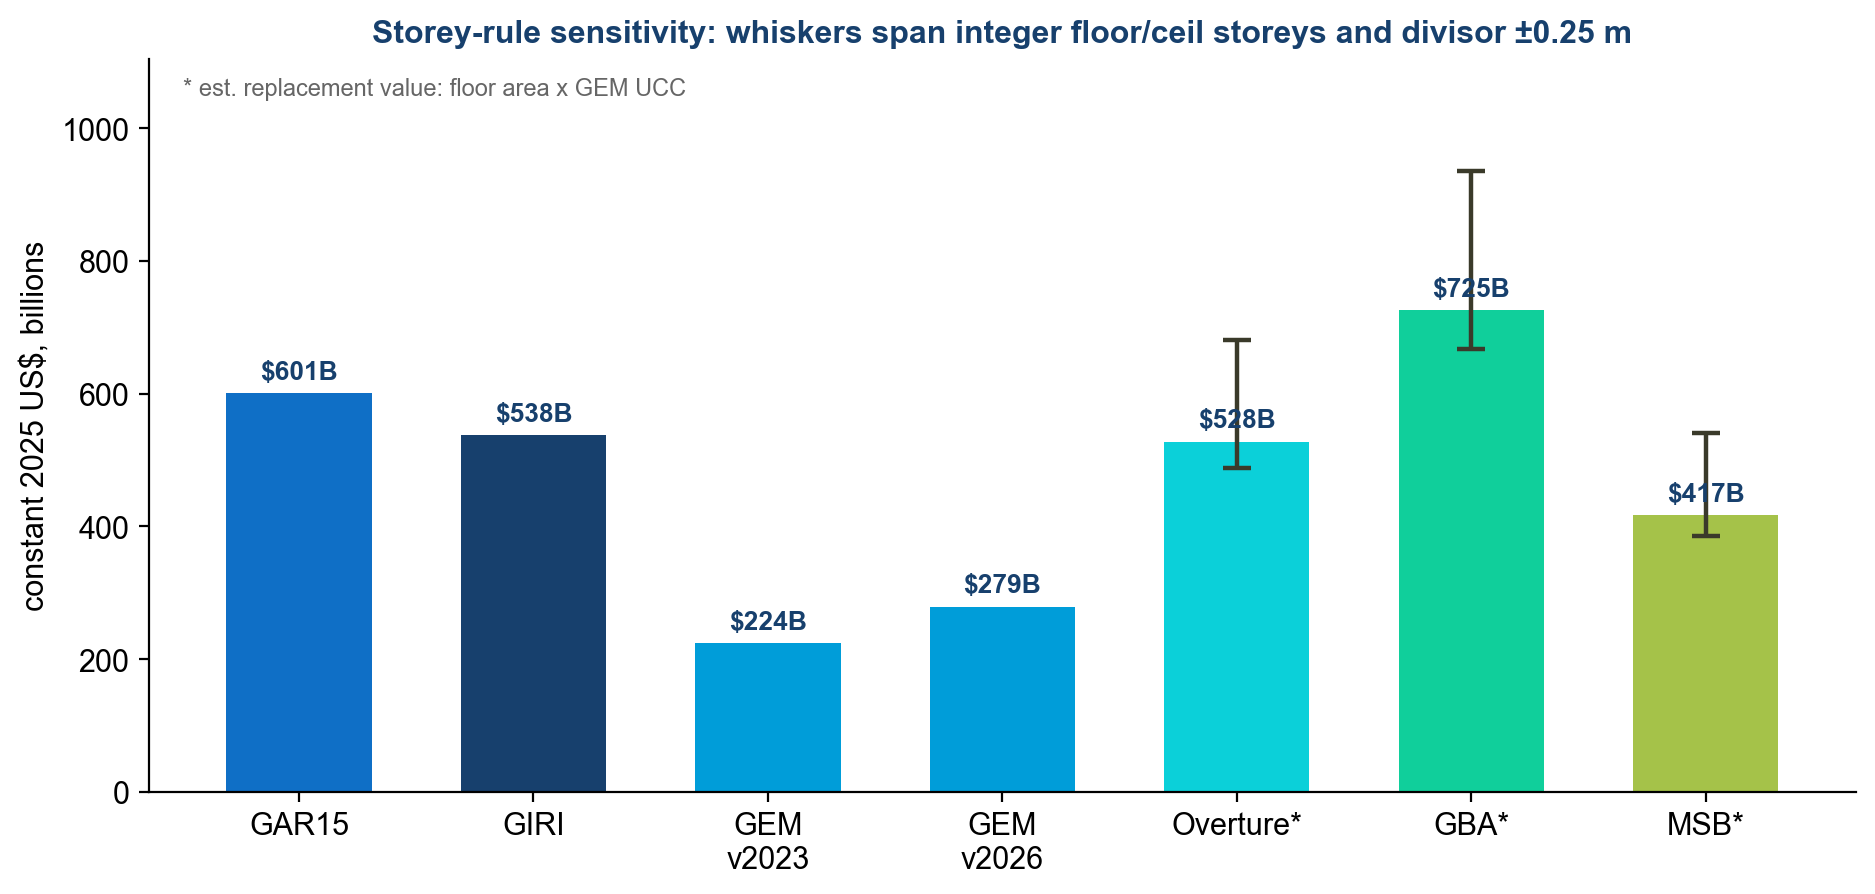
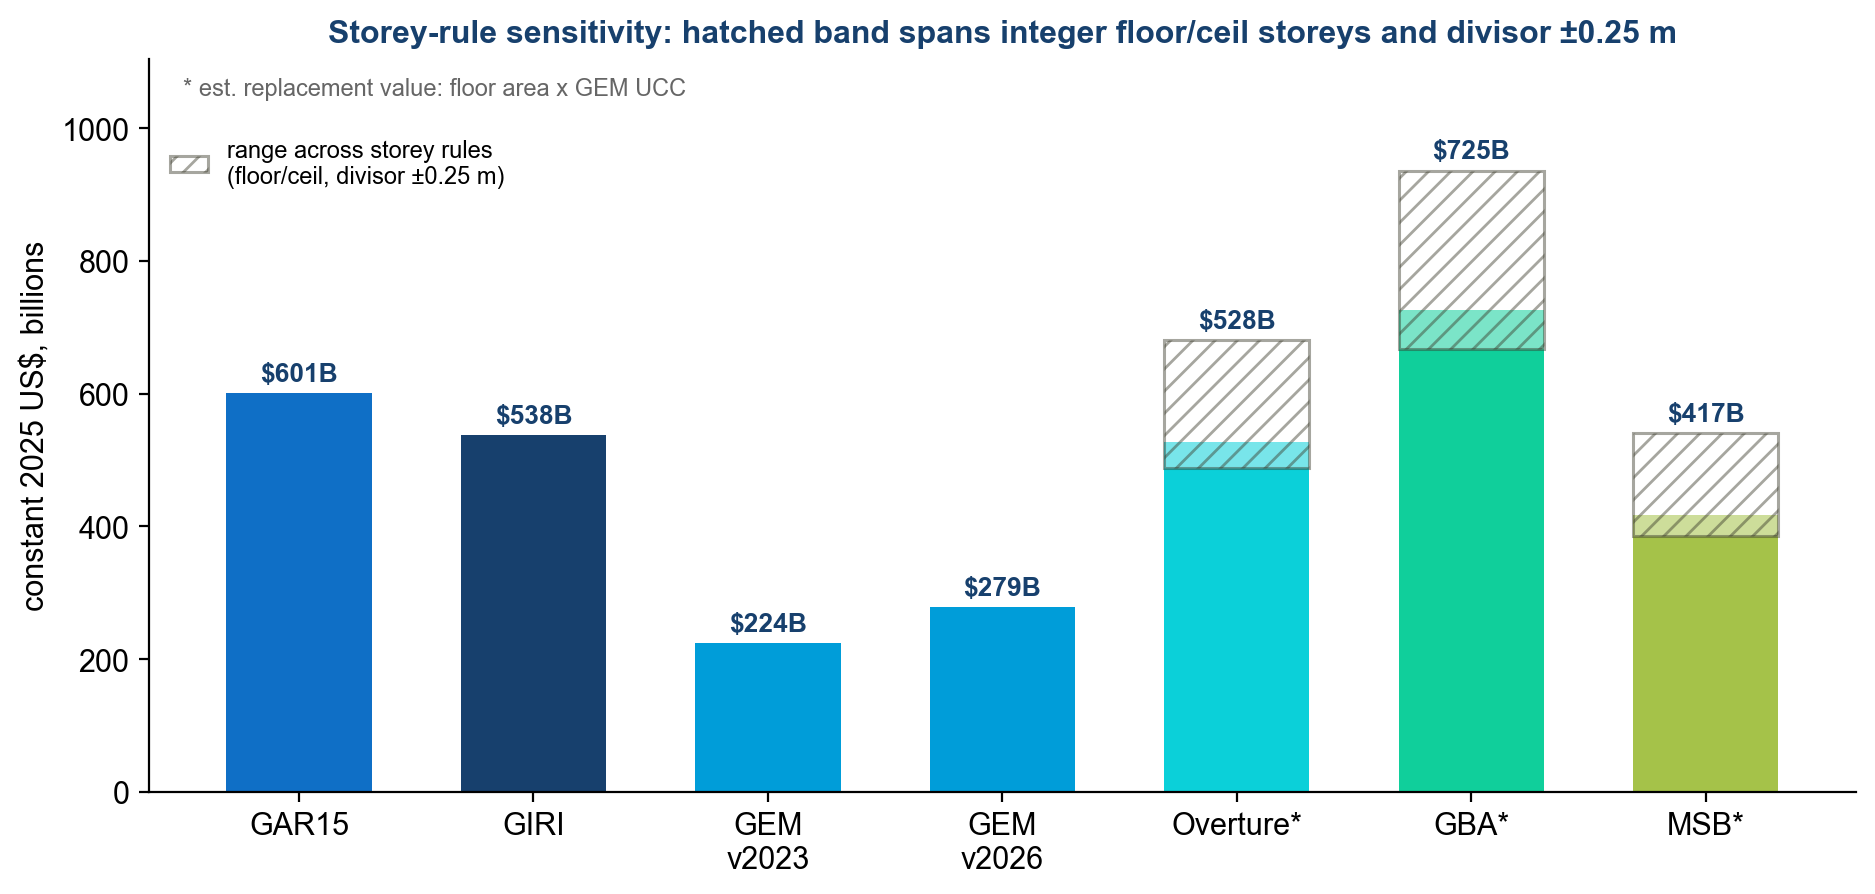
Sensitivity chart: hatched scenario band instead of whiskers.

diff --git a/site/tools/make_figures.py b/site/tools/make_figures.py
@@ -290,19 +290,26 @@ if SENS:
         hi.append(max(vals) - b)
     x = np.arange(len(labels))
     ax.bar(x, base, color=cols, width=0.62)
-    ax.errorbar(x[len(natives):], base[len(natives):],
-                yerr=[lo, hi], fmt='none', ecolor='#3a3a2a',
-                elinewidth=1.6, capsize=5, capthick=1.6)
+    # scenario envelope as a hatched band over each footprint bar (whiskers
+    # collided with the value labels)
+    band_lo = [b - d for b, d in zip(base[len(natives):], lo)]
+    band_hi = [b + d for b, d in zip(base[len(natives):], hi)]
+    ax.bar(x[len(natives):], [h - l for l, h in zip(band_lo, band_hi)],
+           bottom=band_lo, width=0.62, facecolor='white', alpha=0.45,
+           edgecolor='#3a3a2a', linewidth=1.1, hatch='///',
+           label='range across storey rules\n(floor/ceil, divisor ±0.25 m)')
     for i, b in enumerate(base):
-        ax.text(i, b + max(base) * 0.03, '$' + format(b, ',.0f') + 'B',
+        top = b if i < len(natives) else band_hi[i - len(natives)]
+        ax.text(i, top + max(base) * 0.025, '$' + format(b, ',.0f') + 'B',
                 ha='center', fontweight='bold', color=NAVY, fontsize=9.5)
     ax.set_xticks(x, labels)
     ax.set_ylabel(f'{usdlab}, billions')
-    ax.set_ylim(0, max(max(base), max(b + h for b, h in
-                       zip(base[len(natives):], hi))) * 1.18)
+    ax.set_ylim(0, max(max(base), max(band_hi)) * 1.18)
     ax.spines[['top', 'right']].set_visible(False)
-    ax.set_title('Storey-rule sensitivity: whiskers span integer floor/ceil '
-                 'storeys and divisor ±0.25 m', fontweight='bold',
+    ax.legend(frameon=False, loc='upper left', bbox_to_anchor=(0.0, 0.92),
+              fontsize=8.5, handlelength=1.6)
+    ax.set_title('Storey-rule sensitivity: hatched band spans integer '
+                 'floor/ceil storeys and divisor ±0.25 m', fontweight='bold',
                  color=NAVY, fontsize=11.5)
     ax.text(0.02, 0.95, '* est. replacement value: floor area x GEM UCC',
             transform=ax.transAxes, ha='left', fontsize=8.5, color='#666')